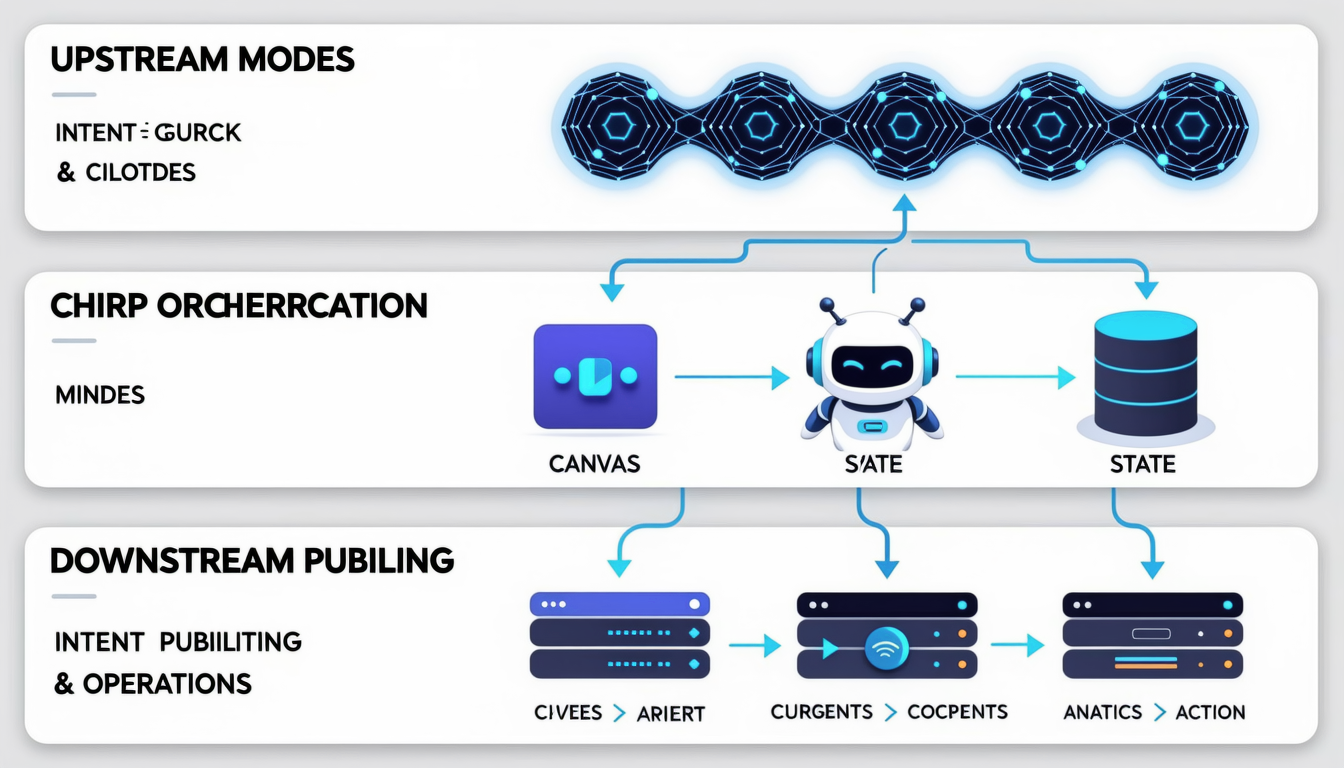
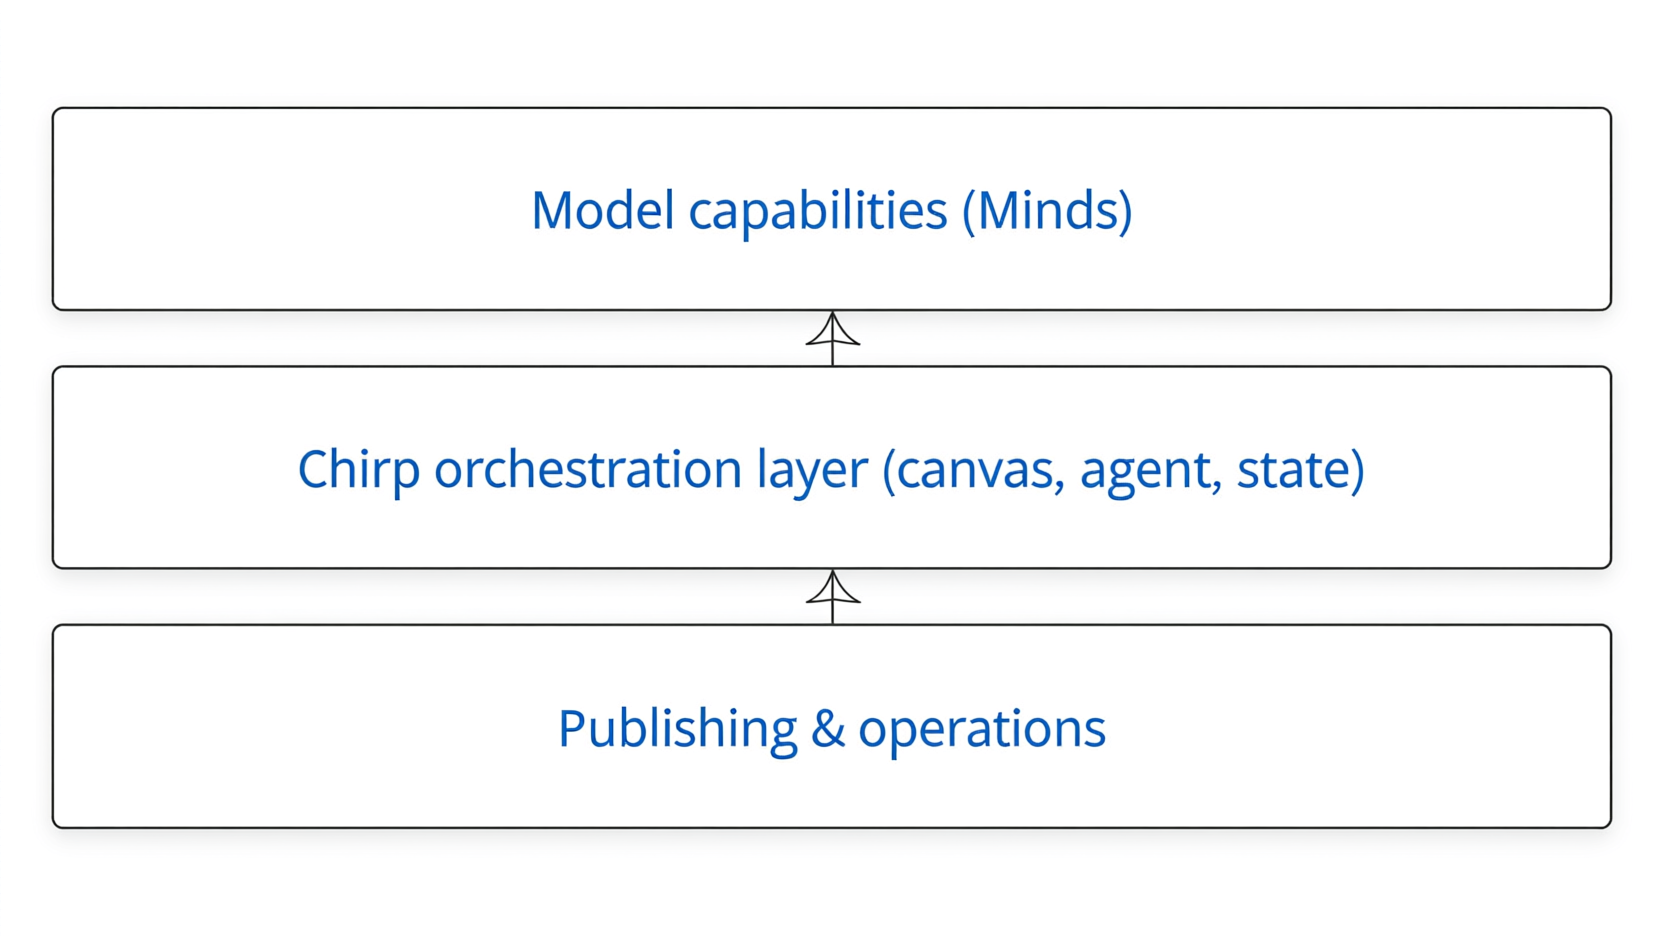
docs: README polish with minimalist product illustrations

diff --git a/README.md b/README.md
@@ -1,8 +1,10 @@
 <div align="center">
-  <img src="public/logo.png" alt="Chirp" width="72" />
+  <img src="public/logo.png" alt="Chirp" width="120" />
+  &nbsp;&nbsp;
+  <img src="public/minds-logo.png" alt="Minds" height="28" />
   <h1>Chirp</h1>
-  <p><strong>The canvas where content work becomes a workflow</strong></p>
-  <p>Knowledge → Marketing → Repurpose → Schedule — orchestrated, not just generated.</p>
+  <p><strong>Orchestrate content, don’t just generate it.</strong></p>
+  <p>One canvas: Knowledge → Marketing → Repurpose → Schedule.</p>
 
   <p>
     <img alt="Next.js" src="https://img.shields.io/badge/Next.js-16-black" />
@@ -10,66 +12,70 @@
     <img alt="TypeScript" src="https://img.shields.io/badge/TypeScript-5-3178c6" />
     <img alt="React Flow" src="https://img.shields.io/badge/React%20Flow-12-ff0072" />
     <img alt="Zustand" src="https://img.shields.io/badge/Zustand-5-443e38" />
-    <img alt="Minds" src="https://img.shields.io/badge/Minds-Agent-394f95" />
     <img alt="Vercel" src="https://img.shields.io/badge/Deploy-Vercel-000" />
   </p>
-</div>
 
-> **中文摘要**：Chirp 把「知识 → 营销 → 复用 → 排期」做成一张可执行画布，用 Agent 驱动画布，解决创作者在 Chat/TG 里的「上下文地狱」。基于 Minds 的垂直内容编排层：可复用、可协作、可扩展。
+  <p><em>中文摘要：一张画布跑通内容工作流，Agent 直接驱动。</em></p>
+</div>
 
 ---
 
-## 1. Problem — Context Hell
+## Quick Start
 
-Creators and brands run strategy through scattered chat threads, Telegram groups, and docs. Every new conversation feels like a **restart**: no shared state, no reusable outputs, manual scheduling, and zero traceability. We call this **Context Hell** — the work exists, but it never compounds.
+```bash
+pnpm install
+pnpm dev
+```
 
-**Chirp turns conversation into an executable canvas workflow.** Knowledge, angles, copy, and schedule live on the same graph, flow through dependencies, and stay reusable.
+Requires:
 
-<p align="center">
-  <img src="docs/images/context-hell.png" alt="From scattered context to one orchestrated canvas" width="880" />
-</p>
-
-## 2. Why Vertical, Not “Just Call a Model”
-
-Think **AI short drama / AI comic series**: creators don’t stop at “call an image model once.” They **orchestrate** characters, shots, scripts, pacing, and edits inside a workbench to ship a full episode. Content creation is the same — teams need **composable, reusable, extensible** workflows, not one-off fragments.
-
-Chirp is a **vertical workbench for content creators**, built on **Minds**: brand knowledge, marketing angles, cross-platform repurposing, and scheduling are orchestrated into a single executable chain. AI doesn’t just “generate” — it **collaborates to run a full content pipeline**.
-
-## 3. Market & Vision
-
-- The creator economy keeps expanding; brands and teams need **reusable, collaborative, measurable** content operations, not scattered generation.
-- A canvas-first core naturally supports **integration and extension**: scheduling, publishing, analytics loops, collaboration, and more platforms can grow on the same workflow.
-- **Vision:** become the **orchestration layer** for content — model capabilities upstream, publishing and ops downstream, and a durable layer of reusable knowledge and process in between.
+```bash
+MINDS_BUILDER_API_KEY=...
+MINDS_MIND_ID=...
+```
 
 <p align="center">
-  <img src="docs/images/orchestration-layer.png" alt="Chirp as the orchestration layer" width="880" />
+  <img src="docs/images/hero.png" alt="Chirp canvas workbench" width="680" />
 </p>
 
-## 4. Product Advantages
+## Problem — Context Hell
 
-- **Chat → Canvas**: conversation isn’t the endpoint; the Agent lands plans as nodes and edges
-- **Structured deliverables**: brand knowledge cards, marketing angles, platform-specific copy, schedule tasks — all reusable
-- **Closed loop**: Knowledge → Marketing → Repurpose → Schedule in one place
-- **Quality guardrails**: intent routing + structured parsing + repair, so “ops chatter” never reaches the UI
-- **Compounding memory**: knowledge base + pack export, so learnings carry to the next project
+Strategy lives in scattered chat threads, Telegram groups, and docs. Every conversation feels like a **restart** — no shared state, no reusable output, manual scheduling.
 
-<p align="center">
-  <img src="docs/images/hero.png" alt="Chirp canvas workbench" width="880" />
-</p>
-
-## 5. Agent Commands
-
-| Command | What it does |
+| Before | After |
 | --- | --- |
-| `/plan` | Produce a step plan (direction / steps / canvas suggestions) |
-| `/angles` | Draft 3 marketing angles into a canvas marketing node |
-| `/apply` | Land the plan onto the canvas as nodes + edges |
-| `/run` | Run the pipeline by dependency order |
-| `/schedule` | Open the Schedule · Tasks board (schedule-only, no auto-publish) |
+| Fragments across Chat / TG / docs | One executable canvas workflow |
+| Re-generate from scratch each time | Knowledge, angles, copy, schedule compound |
+| Manual, untraceable handoffs | Dependencies and provenance on the graph |
 
-## 6. Architecture
+## Why vertical, not “just call a model”
 
-### System context
+AI short-drama teams don’t stop at a single image call — they **orchestrate** an entire episode in a workbench. Content creation is the same. Chirp is a **vertical workbench for content creators**, built on **Minds**: brand knowledge, marketing angles, cross-platform repurposing, and scheduling become one executable chain.
+
+<details>
+<summary><strong>Market &amp; vision</strong></summary>
+
+- The creator economy needs **reusable, collaborative, measurable** content operations, not scattered generation.
+- A canvas-first core supports **integration and extension**: scheduling, publishing, analytics loops, collaboration, more platforms.
+- **Vision:** the **orchestration layer** for content — models upstream, publishing/ops downstream, and a durable layer of reusable knowledge in between.
+
+<p align="center">
+  <img src="docs/images/orchestration-layer.png" alt="Chirp as the orchestration layer" width="680" />
+</p>
+
+</details>
+
+## What you can do
+
+| Capability | What you get | Command |
+| --- | --- | --- |
+| Plan | Step-by-step plan (direction / steps / canvas suggestions) | `/plan` |
+| Angles | 3 marketing angles written into a marketing node | `/angles` |
+| Apply | Land the plan as nodes + edges | `/apply` |
+| Run | Execute the pipeline by dependency order | `/run` |
+| Schedule | Open the Schedule · Tasks board (schedule-only) | `/schedule` |
+
+## Architecture
 
 ```mermaid
 flowchart LR
@@ -84,7 +90,8 @@ flowchart LR
   S --> EX[Pack Export / Knowledge Base]
 ```
 
-### Data flow (apply → run → schedule)
+<details>
+<summary><strong>Data flow &amp; domain model</strong></summary>
 
 ```mermaid
 sequenceDiagram
@@ -110,8 +117,6 @@ sequenceDiagram
   A->>B: open board + suggest tasks from repurpose
 ```
 
-### Canvas domain model
-
 ```mermaid
 classDiagram
   class CanvasNodeData {
@@ -136,62 +141,37 @@ classDiagram
   CanvasNodeData --> MarketingAngle
 ```
 
-## 7. Engineering Depth
+</details>
 
-### Intent routing & canvas awareness
-- Regex + slash commands map to `chat | plan | deliverable_angles | canvas_apply | canvas_run | canvas_schedule | help`
-- A **canvas context** (`buildCanvasContext`) is injected into prompts: node kinds, counts, selection, knowledge entries, board tasks — the Agent answers **with the canvas in mind**
+## Engineering depth
 
-### Structured generation with parse + repair
-- **Knowledge**: distill into a brand card; reject ops/contract meta or non-card output; single repair pass with `KNOWLEDGE_REPAIR_SUFFIX`
-- **Marketing**: parse into `angles[]` grounded in upstream knowledge/assets; repair on parse/grounding failure (`MARKETING_REPAIR_SUFFIX`)
-- **Apply**: strict JSON schema `{"status":"ready","workflow":{...}}` or `need_clarification`; repair with `APPLY_REPAIR_SUFFIX`
+<details>
+<summary><strong>Intent routing, structured generation, guardrails, persistence, testing</strong></summary>
 
-### Quality guardrails (no “task wall”)
-- Contract/ops chatter detection (`isContractMetaReply`) across chat/plan/marketing/apply
-- One repair attempt, then a **friendly, on-topic fallback** instead of surfacing PIVOT/TASK text
-- Prompt-level bans: no TASK-prefix, no contract IDs, no PIVOT-Ops, no recapping prior threads
+- **Intent routing & canvas awareness** — slash commands + regex map to `chat | plan | deliverable_angles | canvas_apply | canvas_run | canvas_schedule | help`; a canvas context (`buildCanvasContext`) injects node kinds, counts, selection, knowledge entries, and board tasks into prompts.
+- **Structured generation with parse + repair** — knowledge cards, marketing `angles[]`, and apply JSON are parsed and repaired once on failure (`KNOWLEDGE_REPAIR_SUFFIX`, `MARKETING_REPAIR_SUFFIX`, `APPLY_REPAIR_SUFFIX`).
+- **Quality guardrails** — contract/ops chatter detection (`isContractMetaReply`) across chat/plan/marketing/apply; one repair, then a friendly on-topic fallback instead of surfacing PIVOT/TASK text. Prompt-level bans on TASK-prefix, contract IDs, PIVOT-Ops.
+- **State & persistence** — Zustand holds projects, canvases, knowledge entries, and board tasks, persisted to `localStorage` (`chirp-store`); per-project Minds conversation alias (`chirp-${slug}-${Date.now()}`) via `/api/minds/init`; pack export (JSON/Markdown).
+- **Reliability & testing** — timeouts + single-repair retries; typed failure modes (`marketing-unusable`, `apply-unusable`, `insufficient-upstream`); offline asserts in `scripts/assert-node-content.ts`; probe scripts `scripts/probe-node-quality.mjs`, `scripts/probe-matrix-full.mjs`.
 
-### State, persistence, export
-- Zustand holds **projects, canvases, knowledgeEntries, boardTasks**, persisted to `localStorage` (`chirp-store`)
-- Per-project Minds conversation alias (`chirp-${slug}-${Date.now()}`) created lazily via `/api/minds/init`
-- **Pack export** (JSON/Markdown) for portability and review
+</details>
 
-### Reliability & testing
-- Timeouts + single-repair retries; typed failure modes (`marketing-unusable`, `apply-unusable`, `insufficient-upstream`)
-- Offline asserts: `scripts/assert-node-content.ts` (structure, meta stripping, grounding)
-- Probe scripts: `scripts/probe-node-quality.mjs`, `scripts/probe-matrix-full.mjs`
-
-## 8. Quickstart
-
-```bash
-pnpm install
-pnpm dev
-```
-
-Required environment variables:
-
-```bash
-MINDS_BUILDER_API_KEY=...
-MINDS_MIND_ID=...
-```
-
-## 9. Deploy
-
-Vercel: set the two Minds variables above. Same-origin env; avoid `NEXT_PUBLIC_APP_URL` unless you actually use it.
-
-## 10. Quality & Reliability
+## Quality & Reliability
 
 - Intent routing + structured parsing + repair
 - Ops-chatter guardrail so “task walls” never surface
 - Offline asserts for node content structure
 
-## 11. Roadmap / Demo
+## Deploy
+
+Vercel: set the two Minds variables above. Same-origin env; avoid `NEXT_PUBLIC_APP_URL` unless you actually use it.
+
+## Roadmap / Demo
 
 - Demo video (in progress)
 - More platforms, team collaboration, publishing integrations
 
-## 12. Team / Acknowledgements / Hackathon
+## Team / Acknowledgements / Hackathon
 
 - Team: Chirp
 - Thanks: Minds by Animoca Brands, React Flow, Vercel
@@ -199,4 +179,4 @@ Vercel: set the two Minds variables above. Same-origin env; avoid `NEXT_PUBLIC_A
 
 ---
 
-> Illustrations generated with Alibaba DashScope (Wanx T2I) for this README.
+> Illustrations generated with Alibaba DashScope (Qwen-Image) in an IKEA-manual line style for this README.

diff --git a/docs/images/prompts/hero.md b/docs/images/prompts/hero.md
@@ -1,0 +1,1 @@
+Minimal product infographic, IKEA-manual line style. White background, thin black outlines, one accent blue (#394F95). A horizontal canvas strip shows four connected nodes: Knowledge → Marketing → Repurpose → Schedule. A slim agent sidebar on the right. Flat, no gradients, no shadows, generous whitespace, 16:9, no watermark, no logos, no photorealism.

diff --git a/docs/images/prompts/orchestration-layer.md b/docs/images/prompts/orchestration-layer.md
@@ -1,0 +1,1 @@
+Minimal layered architecture infographic, IKEA-manual line style. Three horizontal layers: top "Model capabilities (Minds)", middle "Chirp orchestration layer (canvas, agent, state)", bottom "Publishing & operations". Thin arrows between layers. White background, black lines, one accent blue. Flat, clean, 16:9, no watermark, no photorealism.

diff --git a/docs/images/prompts/context-hell.md b/docs/images/prompts/context-hell.md
@@ -1,0 +1,1 @@
+Minimal before/after infographic, IKEA-manual line style. Left: scattered chat bubbles and docs (messy). Right: a single clean canvas flow (ordered). White background, thin black lines, one accent blue. Flat, ample whitespace, 16:9, no watermark, no photorealism.
